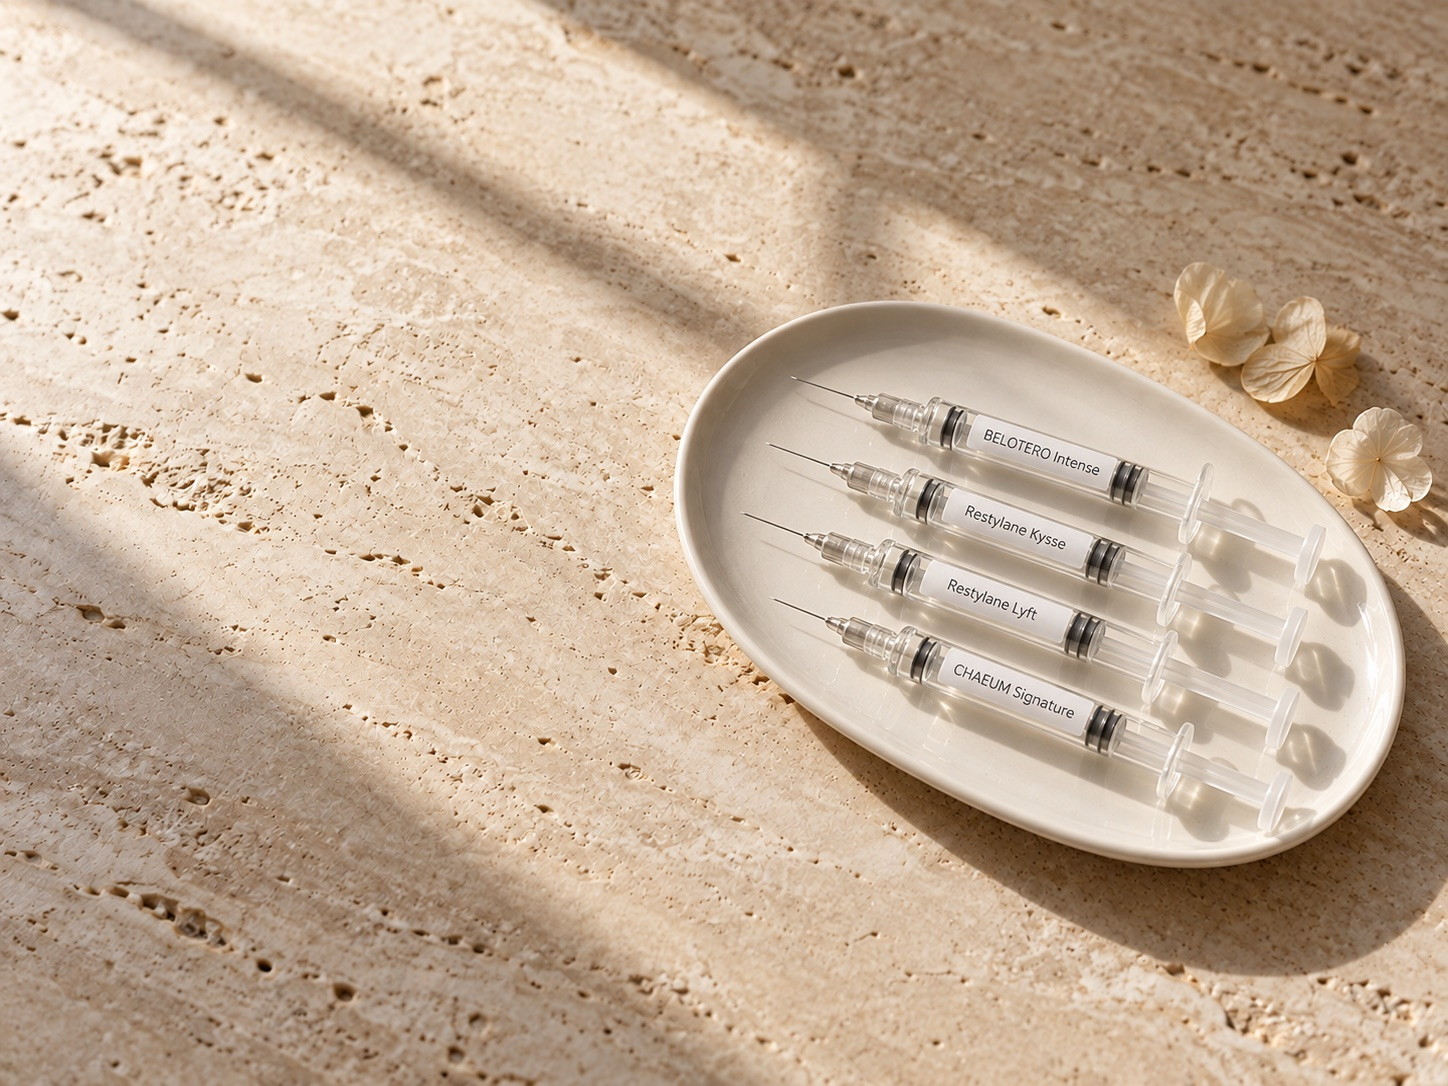
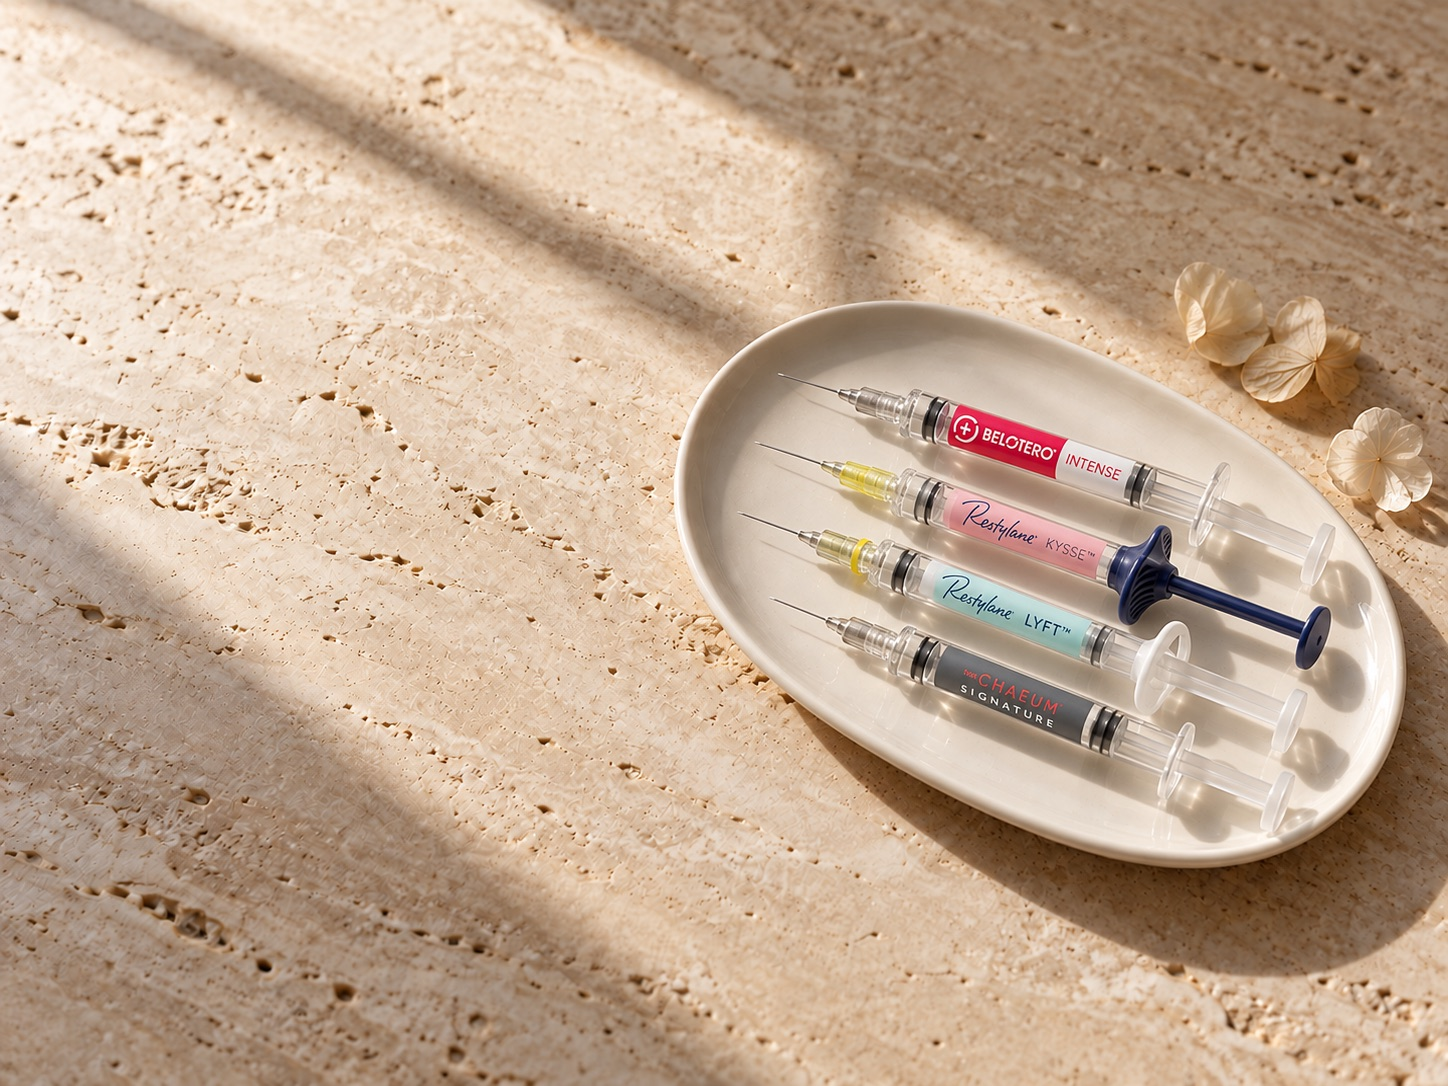
Use product-accurate filler image on goun hero

diff --git a/goun.html b/goun.html
@@ -885,7 +885,7 @@ body.d-body,body{background:var(--r-bg)}
     <div class="r-fl">2층 · 고운</div>
     <h1 class="r-h1">경험한 시술만<br>권합니다.</h1>
   </div>
-  <img class="r-rv" src="assets/goun-filler.jpg" alt="트레이 위에 놓인 필러 시린지 네 개" width="1448" height="1086">
+  <img class="r-rv" src="assets/goun-filler.jpg" alt="트레이 위에 놓인 필러 시린지 — 벨로테로 인텐스, 레스틸렌 키스, 레스틸렌 리프트, 더채움 시그니처" width="1448" height="1086">
 </section>
 
 <!-- INTRO -->
